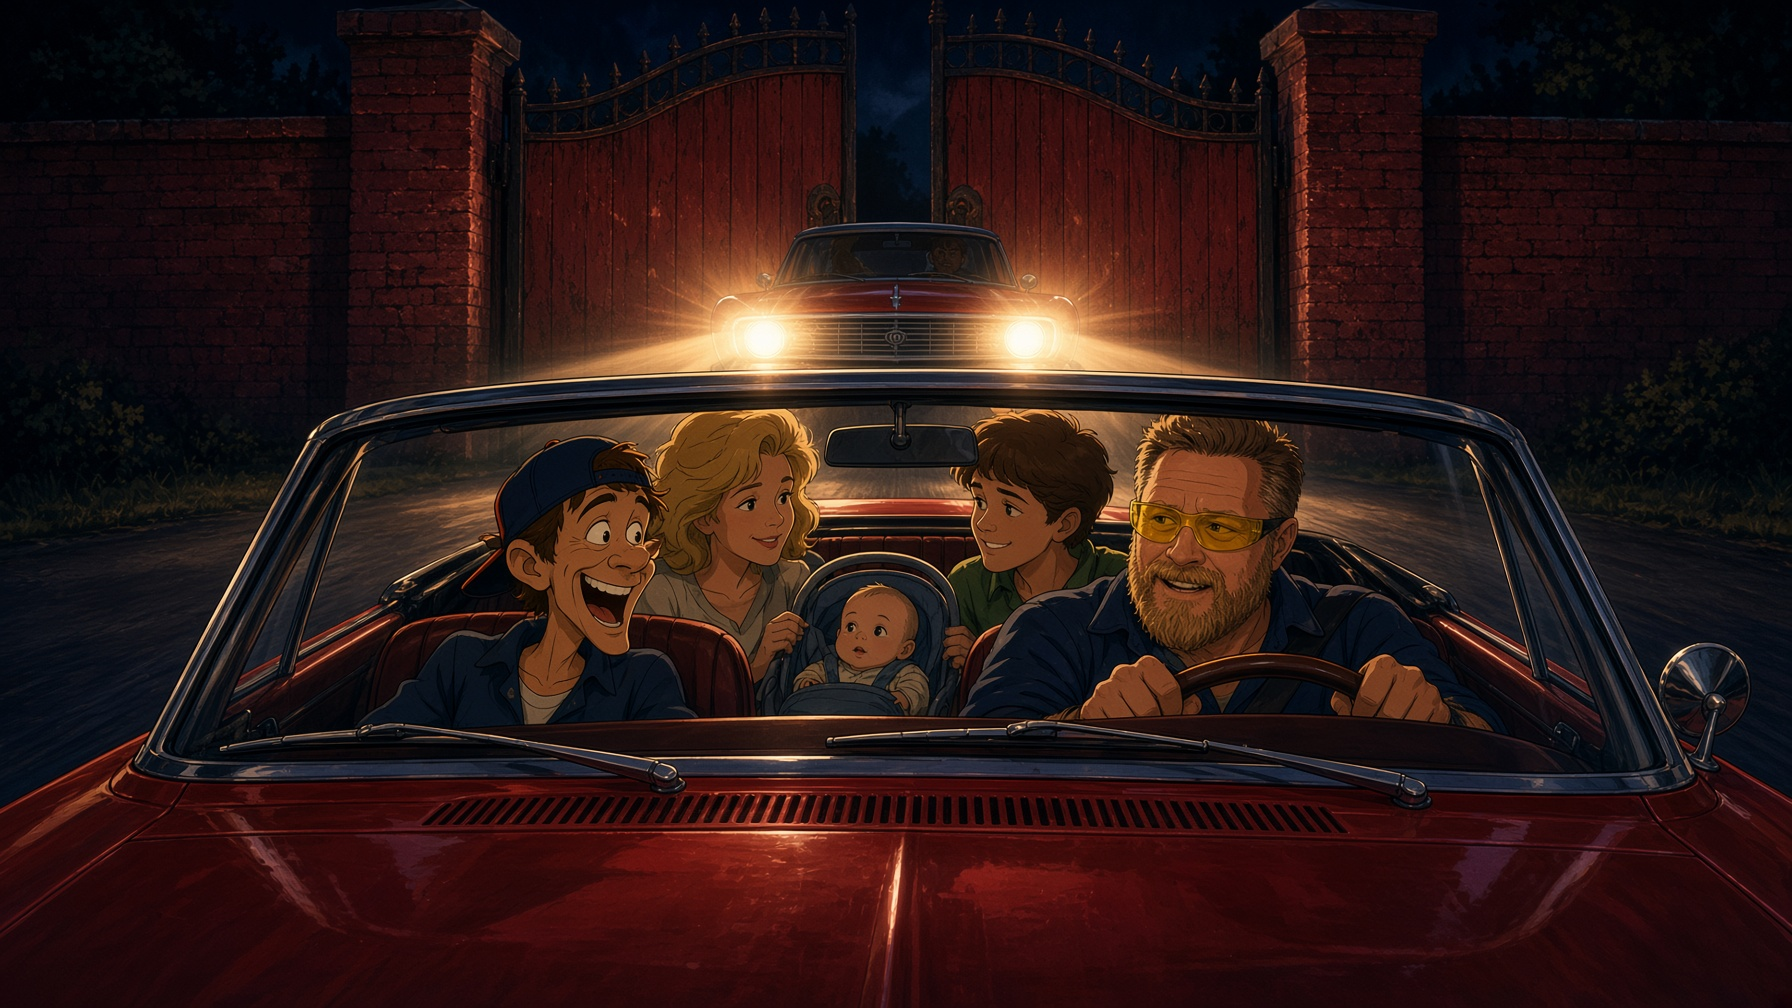
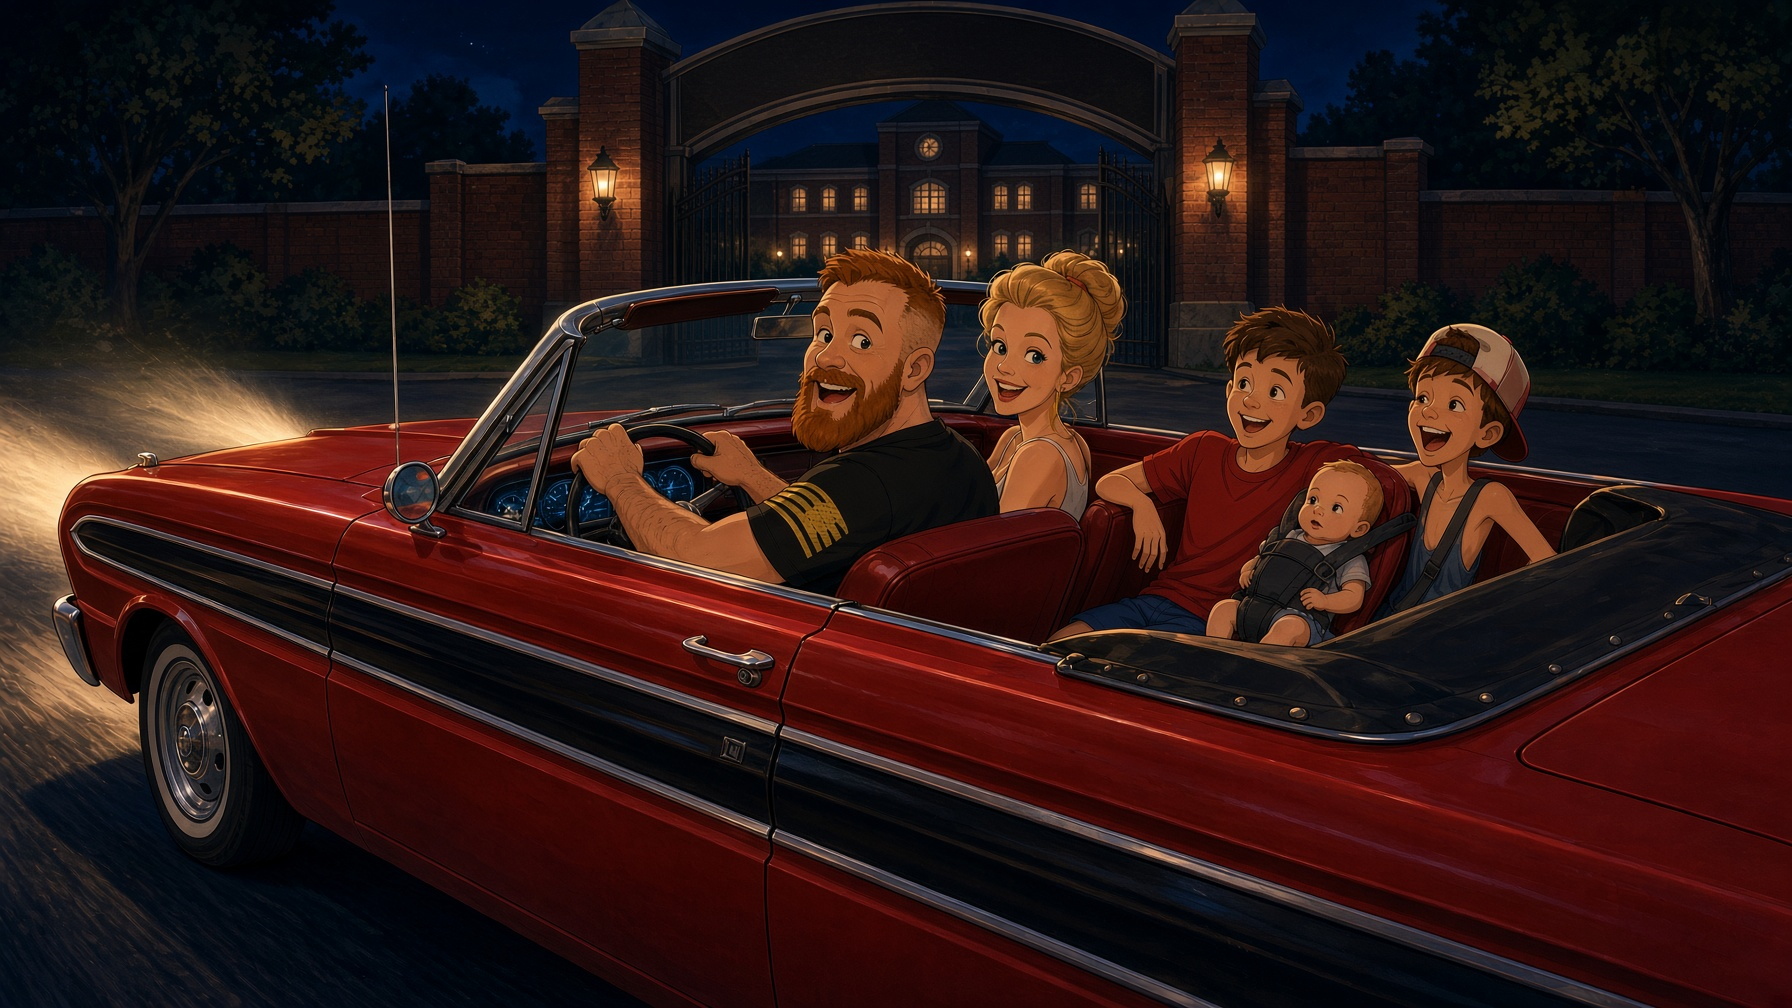
Restyle Hub, Stefany, Johnny, Hope, and the red Falcon from the photos.

diff --git a/condenser-lair/lair.js b/condenser-lair/lair.js
@@ -531,9 +531,9 @@ const BEATS = [
     room: "falcon",
     roomNo: 18,
     roomName: "Falcon",
-    image: "art/r19.jpg?v=me",
+    image: "art/r19.jpg?v=fam",
     deathImage: "art/death-crowd.jpg",
-    blurb: "Your 1964 Falcon. Red, top down. The sidekick is already talking. The house is the other way.",
+    blurb: "Your '64 Falcon. Red, black stripe, blue gauges. Sidekick's already talking. Home is the other way.",
     call: "HOME",
     move: "up",
     success: "You hold the lane. The family doesn't know you're coming yet.",
@@ -546,12 +546,12 @@ const BEATS = [
     room: "falcon",
     roomNo: 18,
     roomName: "Falcon",
-    image: "art/r21.jpg",
+    image: "art/r21.jpg?v=fam",
     deathImage: "art/death-crowd.jpg",
-    blurb: "Stefany is in the driveway with Hope's carrier. You get to her before you get to the car.",
+    blurb: "Stefany has Hope on the hood, both in the red dots. Johnny's at the fender. You get to them before the keys.",
     call: "WITH",
     move: "action",
-    success: "She's with you. Hope stays in the carrier. Johnny's already at the back seat.",
+    success: "She's with you. Hope comes off the hood. Johnny's already at the back seat.",
     death: "You go for the keys first. She was the stop.",
     windup: 1.85,
     window: 1.24,
@@ -561,9 +561,9 @@ const BEATS = [
     room: "falcon",
     roomNo: 18,
     roomName: "Falcon",
-    image: "art/r19.jpg?v=me",
+    image: "art/r19.jpg?v=fam",
     deathImage: "art/death-crowd.jpg",
-    blurb: "Door's open on the red Falcon. Stefany has Hope. Johnny is at the back seat. Lincoln Tech is the other way.",
+    blurb: "Door's open. Stefany has Hope. Johnny's in the red shirt at the back seat. The school is the other way.",
     call: "IN",
     move: "right",
     success: "Family's in. You drive the Falcon to the school.",
@@ -995,7 +995,7 @@ function paint() {
   if (sim.phase === "title") {
     if (caption.dataset.mode !== "title") {
       caption.className = "brief";
-      caption.innerHTML = '<div class="who"><img class="medal" src="art/hank.jpg?v=me" alt=""><p>' + WHO + '</p></div><ol><li><span>01</span>Watch. The bar fills. Do not move yet.</li><li><span>02</span>When it flashes, hit that direction or SLAM.</li><li><span>03</span>Too soon, wrong way, too late — Hub dies.</li></ol>';
+      caption.innerHTML = '<div class="who"><img class="medal" src="art/hank.jpg?v=fam" alt=""><p>' + WHO + '</p></div><ol><li><span>01</span>Watch. The bar fills. Do not move yet.</li><li><span>02</span>When it flashes, hit that direction or SLAM.</li><li><span>03</span>Too soon, wrong way, too late — Hub dies.</li></ol>';
       caption.dataset.mode = "title";
       lastCaption = "title";
     }
